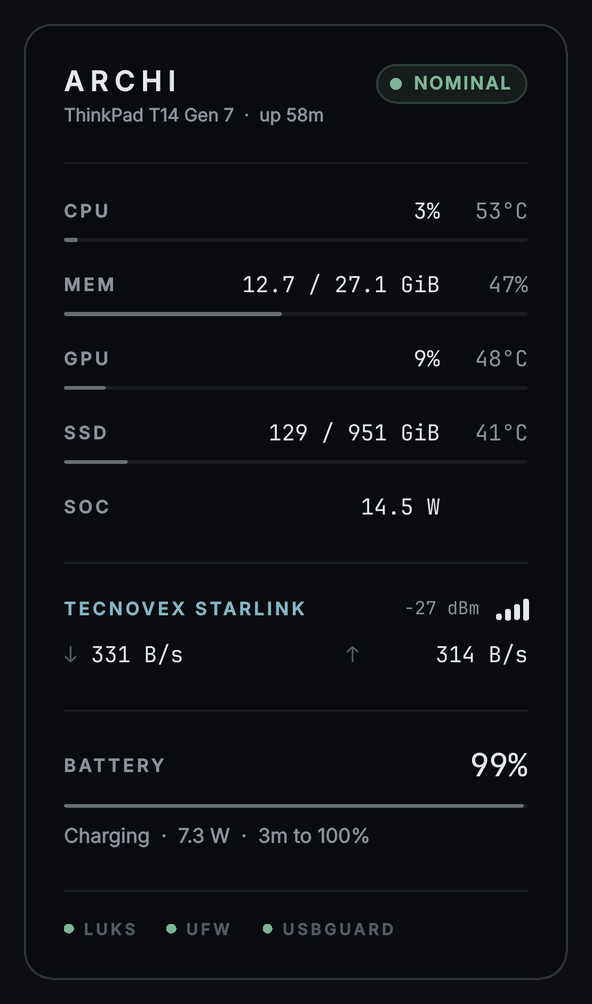
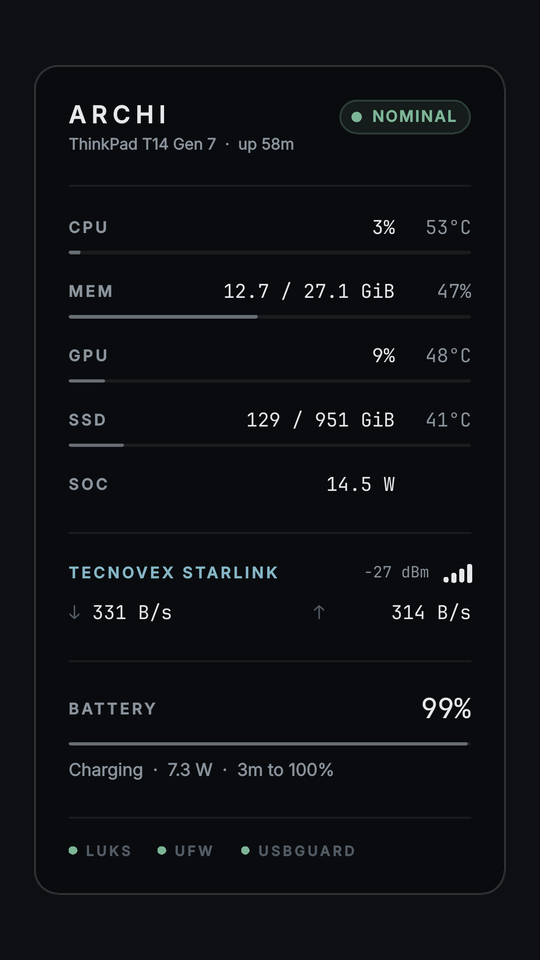
README: imágenes del mismo tamaño (9:16) y tarjeta renderizada en lugar de la captura
Claude-Session: https://claude.ai/code/session_01NihMWjSDrLZi9t1JKneoZp

diff --git a/README.md b/README.md
@@ -4,7 +4,7 @@ Monitor de recursos nativo para **KDE Plasma 6** (Wayland): una tarjeta sobria e
 
 <p align="center">
   <a href="docs/archmonitor-reel.mp4"><img src="docs/archmonitor-reel-preview.gif" alt="Sobrecarga, diagnóstico y vuelta a NOMINAL (clic para ver el video completo)" width="240"></a>
-  <img src="docs/escritorio.png" alt="Archmonitor en el escritorio, con música del navegador" width="240">
+  <img src="docs/tarjeta.png" alt="Archmonitor: la tarjeta en estado nominal" width="240">
   <img src="docs/sobrecarga.png" alt="Sobrecarga: el cajón muestra el proceso culpable, listo para detenerlo" width="240">
 </p>
 
